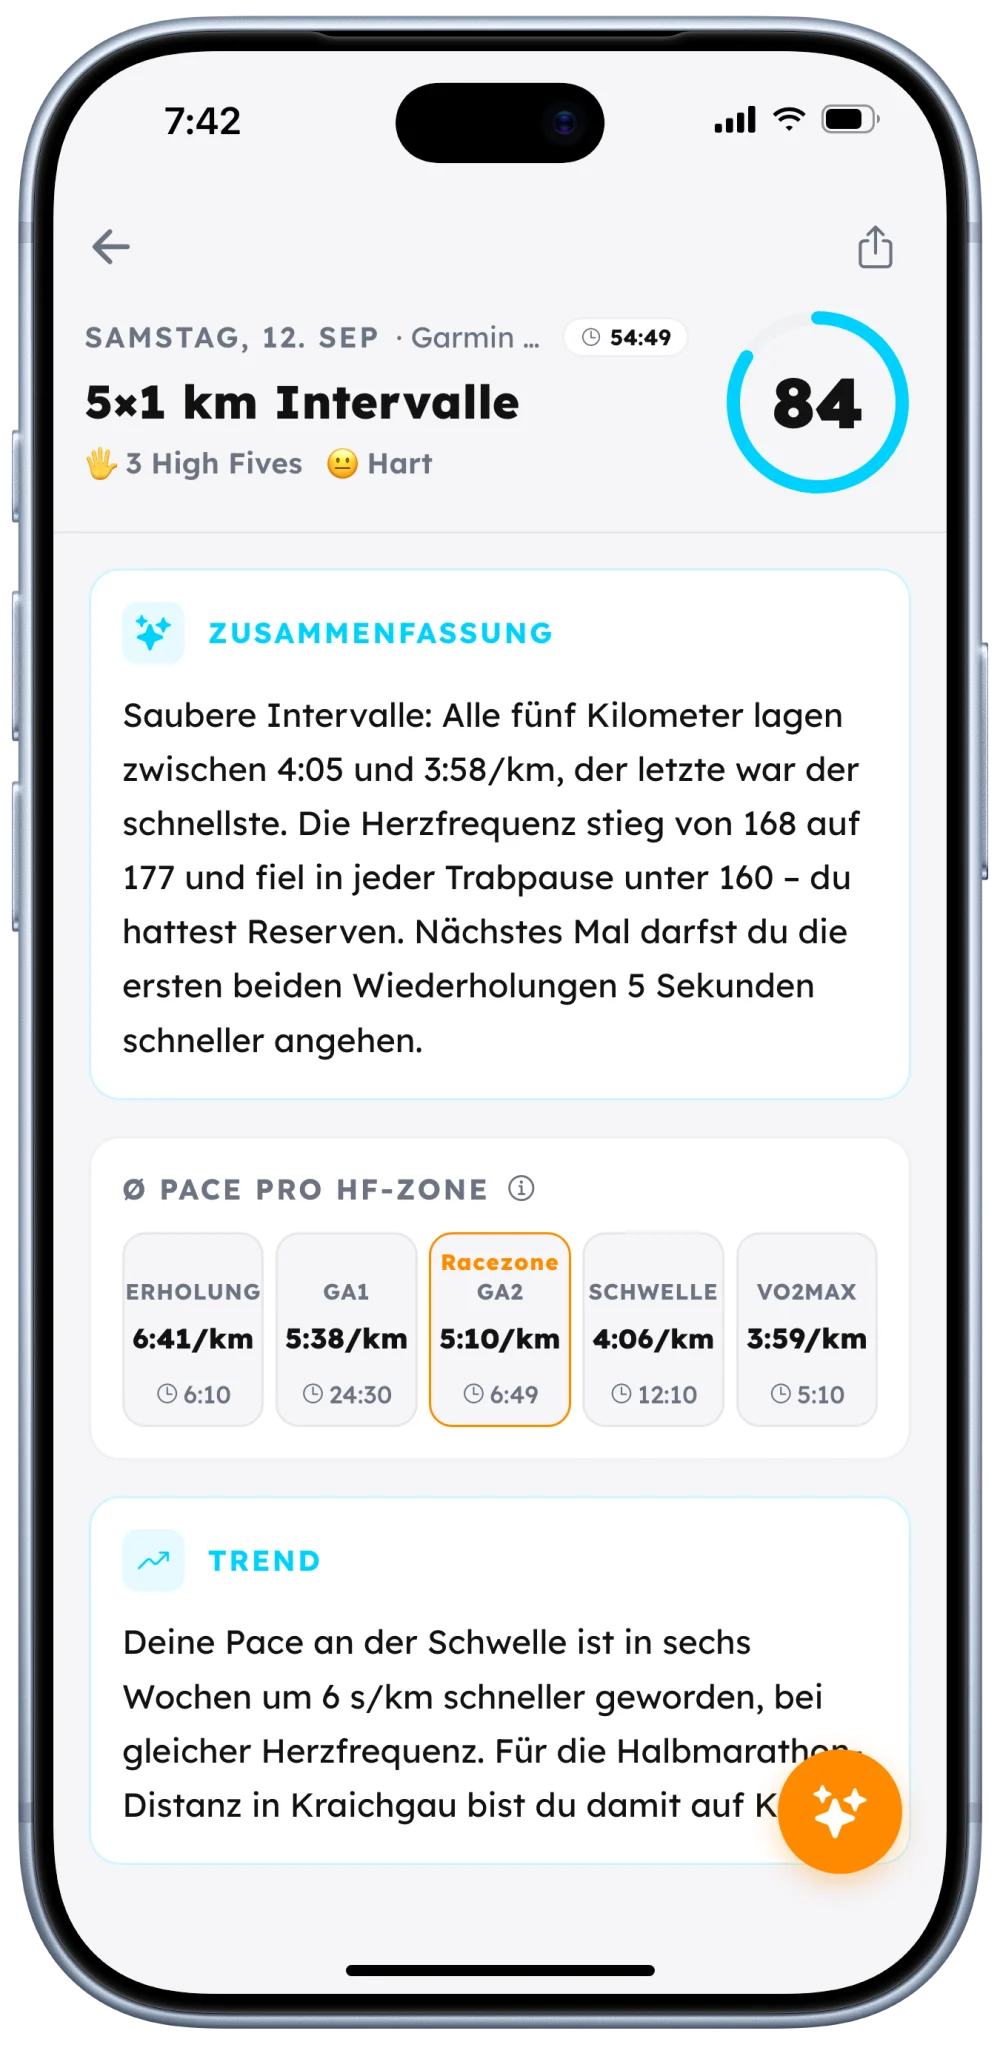
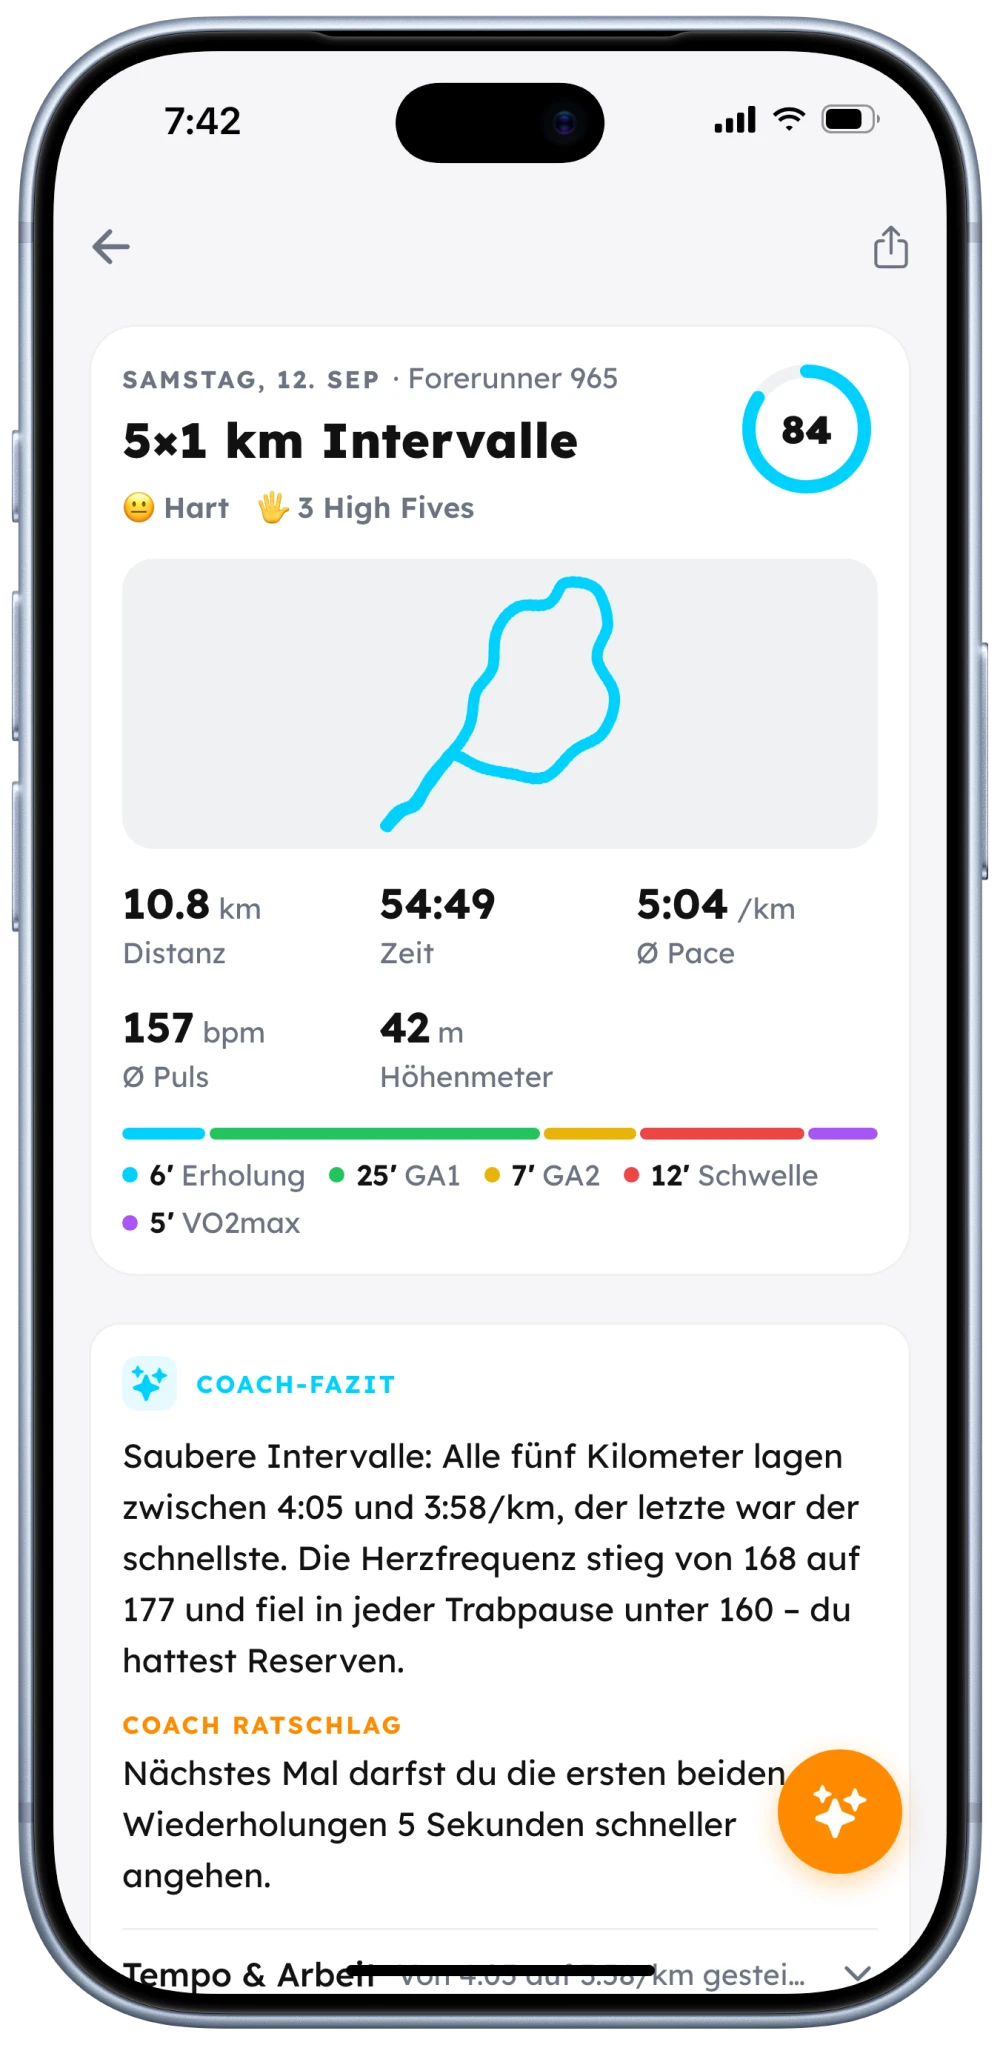
Startseite: Home, Trainingsauswertung und Freunde-Story auf dem Stand der Store-Slides (race-mind 954dc34d)

diff --git a/index-en.html b/index-en.html
@@ -128,7 +128,7 @@
         </ul>
       </div>
       <div class="feature-mockup reveal">
-        <img src="images/app-analyse-en.webp" class="mockup-img" alt="Session analysis with coach assessment and pace per HR zone">
+        <img src="images/app-analyse-en.webp" class="mockup-img" alt="Workout analysis with route, key stats, time in HR zones and coach&rsquo;s verdict">
       </div>
     </div>
   </section>

diff --git a/index.html b/index.html
@@ -128,7 +128,7 @@
         </ul>
       </div>
       <div class="feature-mockup reveal">
-        <img src="images/app-analyse.webp" class="mockup-img" alt="Einheiten-Analyse mit Coach-Einsch&auml;tzung und Pace pro HF-Zone">
+        <img src="images/app-analyse.webp" class="mockup-img" alt="Trainingsauswertung mit Route, Kennzahlen, Zeit in den HF-Zonen und Coach-Fazit">
       </div>
     </div>
   </section>
